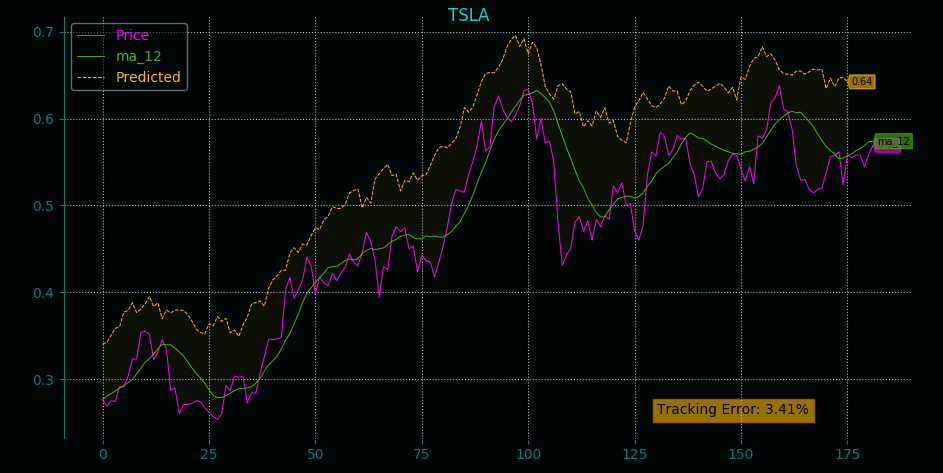
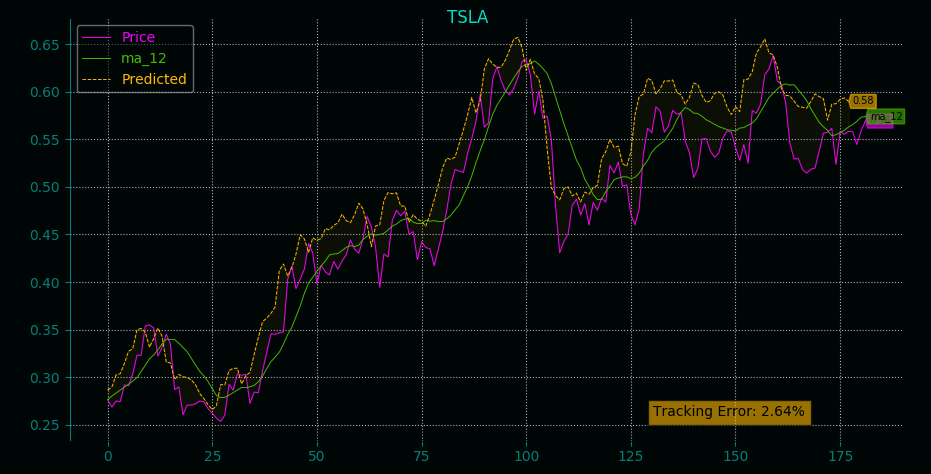
update

diff --git a/main.py b/main.py
@@ -29,7 +29,7 @@ ci = CalculateIndicators(df)
 
 # Parameters
 ci.set_RSI_parameter(n=14)
-ci.set_MACD_parameter2(period_1=12, period_2=26, period_signal=9)
+ci.set_MACD_parameter(period_1=12, period_2=26, period_signal=9)
 ci.set_SO_parameter(period=14)
 ci.set_moving_average_1(window=12)
 ci.set_moving_average_2(window=26)
@@ -40,11 +40,11 @@ data = ci.calculate_indicators()
 ## 2) *** Set parameters and prepare train and test datasets ***
 
 # Parameters
-batch_size = 5
+batch_size = 3
 test_dataset_size = 0.1  # = 10 percent of the complete dataset for testing
-num_units = 56
+num_units = 12
 learning_rate = 0.001
-epochs = 5
+epochs = 10
 
 # All available features:
 # ['Close', 'MACD', 'Stochastics', 'ATR', 'RSI', ci.moving_average_1, ci.moving_average_2_label]

diff --git a/indicators.py b/indicators.py
@@ -26,7 +26,7 @@ class CalculateIndicators(object):
     def set_RSI_parameter(self, n):
         self.RSI_n = n
 
-    def set_MACD_parameter2(self, period_1, period_2, period_signal):
+    def set_MACD_parameter(self, period_1, period_2, period_signal):
         self.MACD_period_1 = period_1
         self.MACD_period_2 = period_2
         self.MACD_period_signal = period_signal

diff --git a/README.md b/README.md
@@ -26,7 +26,7 @@ The parameters of the indicator are alterable. Try different values and combinat
 
 ```
 ci.set_RSI_parameter(n=14)
-ci.set_MACD_parameter2(period_1=12, period_2=26, period_signal=9)
+ci.set_MACD_parameter(period_1=12, period_2=26, period_signal=9)
 ci.set_SO_parameter(period=14)
 ci.set_moving_average_1(window=12)
 ci.set_moving_average_2(window=26)
@@ -35,11 +35,11 @@ ci.set_moving_average_2(window=26)
 Network parameters
 -
 
-* Batch size: `'batch_size = 5'`
+* Batch size: `'batch_size = 3'`
 * Size of the test dataset. 0.1 means 10% of the complete dataset. The remaining 90% are testing data: `'test_dataset_size = 0.1'`
-* Neurons of the RNN: `'num_units = 56'`
+* Neurons of the RNN: `'num_units = 12'`
 * Learning rate: `'learning_rate = 0.001'`
-* Epochs: `'epochs = 5'`
+* Epochs: `'epochs = 10'`
 
 Try different values for different stocks to get better results. The parameters above worked fine for me for Tesla (`'TSLA'`)
 
